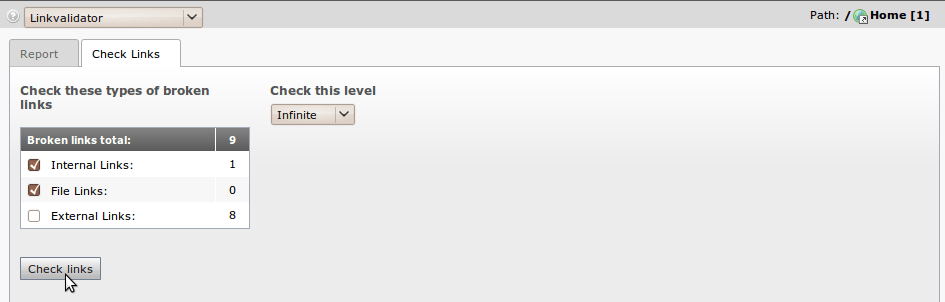
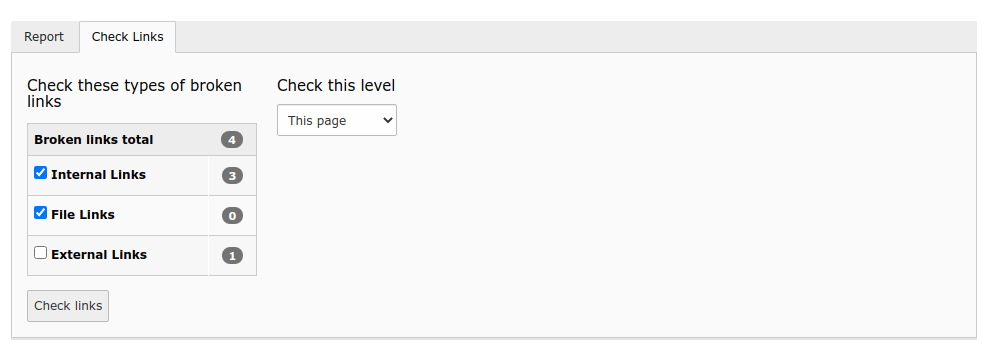
[DOCS] Update linkvalidator documentation Introduction
The Introduction page is updated to reflect current master.
The text are changed in a way that they also apply for
previous versions 10 and 9.

Screenshots are replaced.

Resolves: #92691
Releases: master, 10.4, 9.5

Changed region(s): [[0.0, 0.0, 1.0, 0.7748], [0.0, 0.8046, 0.1228, 0.9834]]

diff --git a/Documentation/Introduction/Index.rst b/Documentation/Introduction/Index.rst
@@ -38,7 +38,8 @@ It includes the following features:
   links to pages and content elements, file links to files in the local
   file system and external links to files somewhere else in the web.
 
-- Linkvalidator by default looks into header fields and bodytext fields.
+- Linkvalidator checks a number of fields by default, for example
+  header fields and bodytext fields of content elements.
   It can be configured to check any field you like.
 
 - Linkvalidator offers a just in time check of your website.
@@ -47,8 +48,8 @@ It includes the following features:
   email report, if broken links were found.
 
 - Linkvalidator is extendable. It provides hooks to check special types
-  of links like those from the extension "linkhandler". The possibility
-  to check these already is built in.
+  of links or override how the checking of external, file and page
+  links works.
 
 
 .. _screenshots:
@@ -94,9 +95,14 @@ Linkvalidator features full support of the TYPO3 scheduler. This is
 the linkvalidator task:
 
 .. figure:: ../Images/SchedulerTask.png
-   :alt: The linkvalidator scheduler task
+   :alt: The linkvalidator scheduler task (1)
 
-   Defining the linkvalidator task in the Scheduler
+   Defining the linkvalidator task in the Scheduler (2)
+
+.. figure:: ../Images/SchedulerTask2.png
+   :alt: The linkvalidator scheduler task (2)
+
+   Defining the linkvalidator task in the Scheduler (2)
 
 
 - With this task you can run linkvalidator regularly via cron without
@@ -107,9 +113,7 @@ the linkvalidator task:
   be used. If you set values there, the former will be overwritten.
 
 - The linkvalidator task can send you a status report via email. You can
-  create an own email template as needed. The default template is
-  located in typo3/sysext/linkvalidator/res/mailtemplate.html.
-
+  create your own email template as needed.
 
 .. _credits:
 
@@ -128,7 +132,6 @@ Feedback
 ^^^^^^^^
 
 If you find a bug in this manual or in the extension in general,
-please file an issue in the bug tracker of this extension:
-`https://forge.typo3.org/projects/extension-linkvalidator/issues
-<https://forge.typo3.org/projects/extension-linkvalidator/issues>`_
+please file an issue in the
+`TYPO3 bug tracker <https://forge.typo3.org/projects/typo3cms-core/issues>`__.
 
